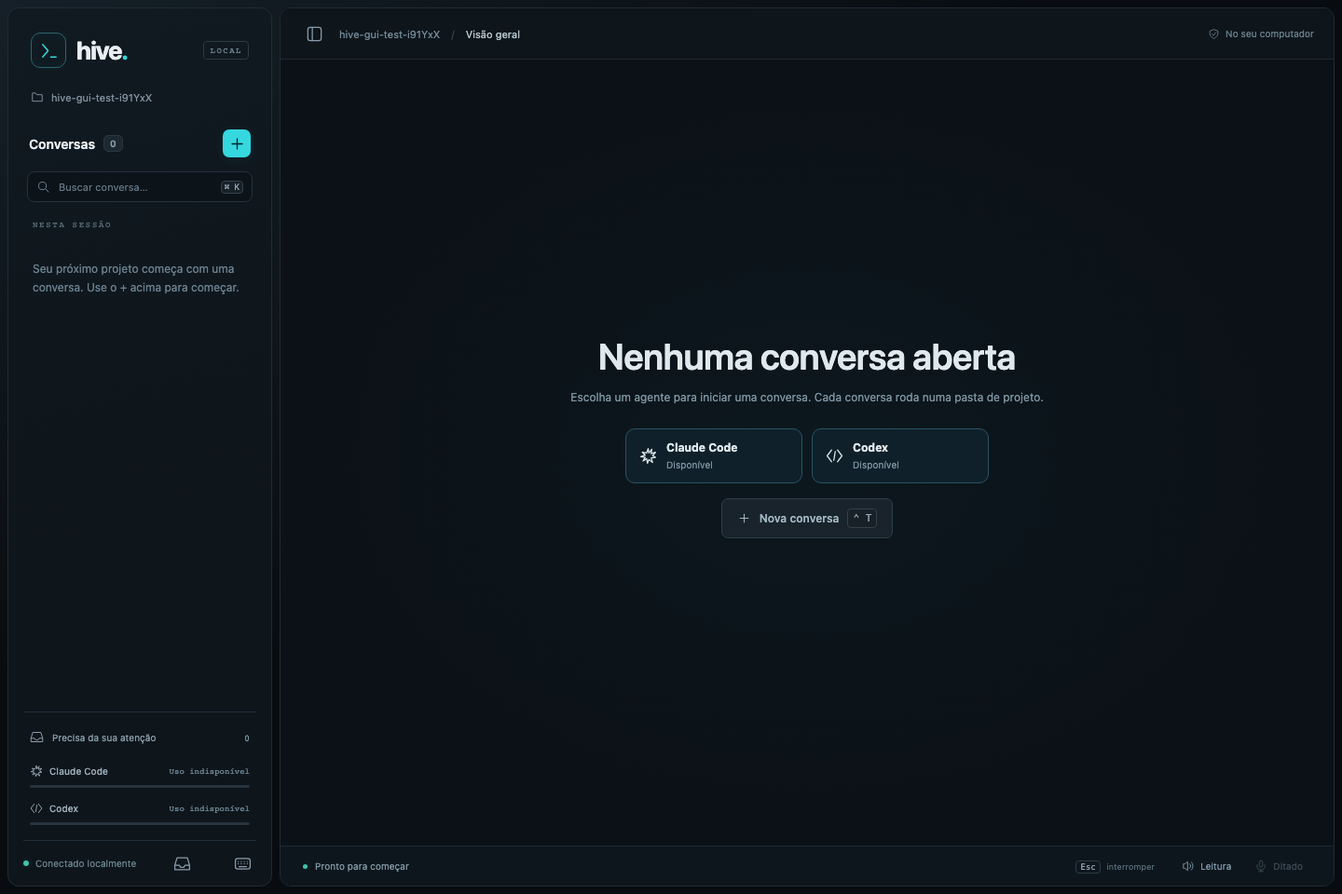
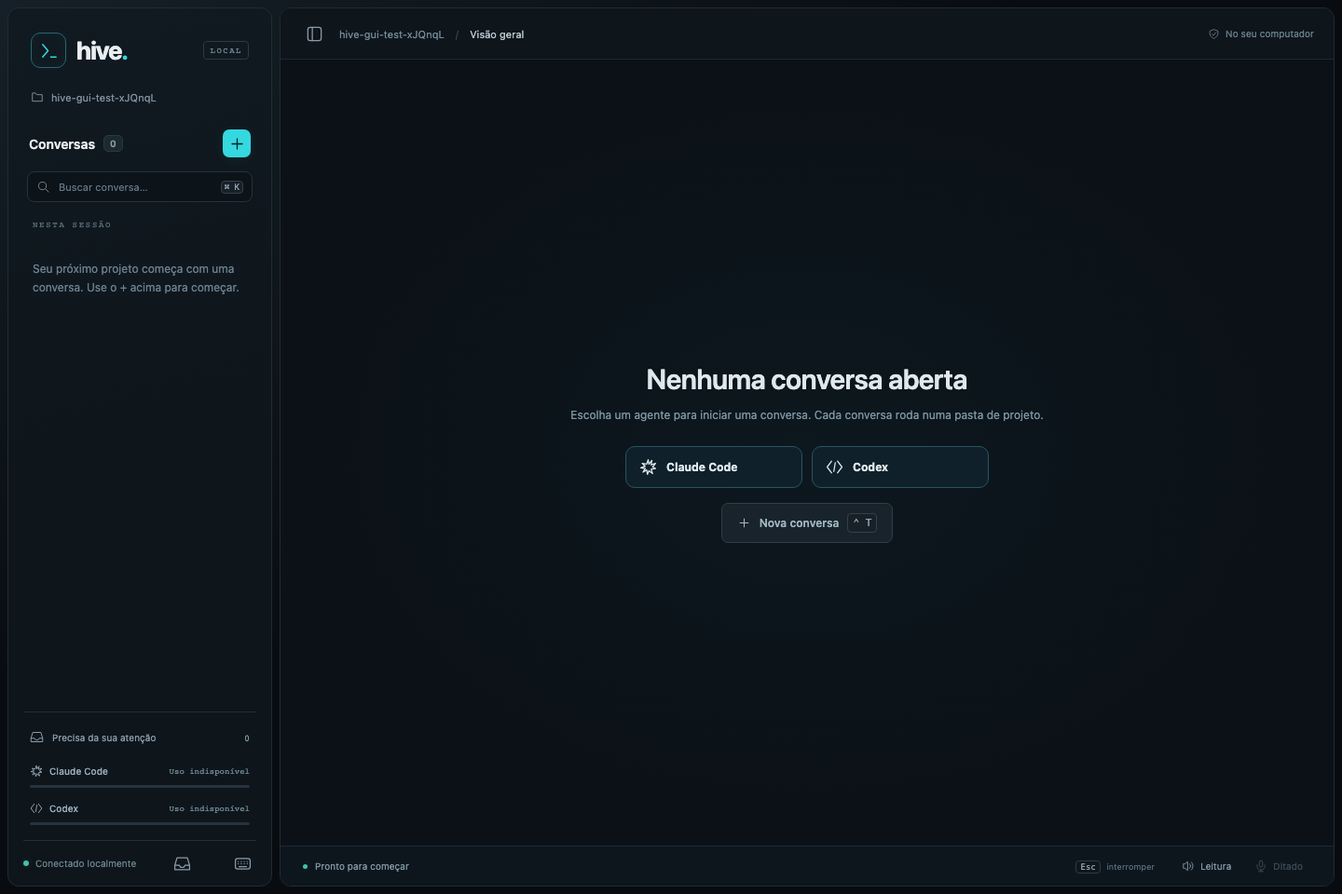
gui: preserve o foco na tela inicial e avise quando o agente não está instalado

Changed region(s): [[0.4062, 0.375, 0.7812, 0.5938], [0.3125, 0.0312, 0.375, 0.0625], [0.0938, 0.0938, 0.125, 0.125]]

diff --git a/gui/style.css b/gui/style.css
@@ -1,6 +1,6 @@
 /* O FitAddon mede #terminal: mantenha os espaçamentos em margens, fora da área útil. */
 :root{font-family:Inter,-apple-system,BlinkMacSystemFont,"Segoe UI",sans-serif;color:#e9eef2;background:#080d11;font-synthesis:none;--bg:#0b1015;--panel:#10171e;--line:#202b35;--muted:#8292a2;--cyan:#35d8df;--cyan-bright:#68edf0;--orange:#de9b7b;--radius:12px;color-scheme:dark}
-*{box-sizing:border-box}body{margin:0}button,input,select{font:inherit}button{cursor:pointer}button:disabled{cursor:not-allowed;opacity:.4}button,input,select{outline:none}button:focus-visible,input:focus-visible,select:focus-visible{outline:2px solid var(--cyan);outline-offset:3px}button{color:inherit}button svg{pointer-events:none}svg{width:19px;height:19px;display:block;flex-shrink:0}button{border:0}input,select{color:inherit}input::placeholder{color:#667887}button{transition:background .16s,border-color .16s,color .16s,box-shadow .16s}h1,h2,p{margin:0}[hidden]{display:none!important}kbd{font:11px ui-monospace,SFMono-Regular,Menlo,monospace;border:1px solid #34414b;background:#182128;border-radius:4px;padding:3px 5px;color:#97a7b6;white-space:nowrap}.workspace{height:100dvh;min-height:0;display:grid;grid-template-columns:284px minmax(0,1fr);padding:8px;gap:8px;background:radial-gradient(ellipse at 0 0,#152028,transparent 55%),#080c10}.sidebar{background:linear-gradient(165deg,#111a21,#0e151b 60%);border:1px solid var(--line);border-radius:var(--radius);display:flex;flex-direction:column;min-height:0;padding:26px 16px 0;position:relative;overflow:auto}.brand{display:flex;align-items:center;gap:11px;font-size:27px;font-weight:720;letter-spacing:-1px;padding:0 8px}.brand-mark{border:1px solid #2b6671;border-radius:10px;box-shadow:inset 0 0 15px #25d6e40b,0 0 15px #25d6e407;width:38px;height:38px;display:grid;place-items:center;color:var(--cyan)}.brand-mark svg{width:23px;height:23px}.brand-dot{color:var(--cyan)}.local-badge{font:9px ui-monospace,monospace;letter-spacing:1.5px;color:#6e8a94;border:1px solid #2a3b43;border-radius:4px;margin-left:auto;padding:4px 6px}.workspace-label{display:flex;align-items:center;gap:8px;font-size:11px;color:var(--muted);margin:24px 8px 28px}.workspace-label svg{width:14px;height:14px}.workspace-label span:last-child{overflow:hidden;text-overflow:ellipsis;white-space:nowrap}.sidebar-heading{display:flex;align-items:center;justify-content:space-between;margin:0 6px 15px}.sidebar-heading h1{font-size:14px;font-weight:600;display:flex;gap:9px;align-items:center}.sidebar-heading h1>span{font-size:10px;background:#1d2931;color:#8d9fac;border:1px solid #2b3841;border-radius:5px;min-width:21px;text-align:center;padding:2px 4px}.icon-button{background:transparent;color:#8a9dac;border:1px solid transparent;width:30px;height:30px;border-radius:7px;display:inline-flex;align-items:center;justify-content:center;flex-shrink:0}.icon-button:hover{color:#e2edf1;background:#1d2b34;border-color:#32444f}.icon-button.primary{color:#05232a;background:var(--cyan);box-shadow:0 2px 12px #33dbdf15;width:30px;height:30px}.icon-button.primary:hover{background:#78f1f4;box-shadow:0 0 18px #35d8df40}.search{display:flex;align-items:center;gap:7px;border:1px solid #26333e;border-radius:8px;padding:8px 9px;color:#728795;background:#0c1319;margin:0 4px 18px}.search svg{width:15px;height:15px}.search input{min-width:0;width:100%;background:none;border:0;font-size:11px}.search kbd{font-size:9px;padding:1px 3px}.search:focus-within{border-color:#3f9ca6}.conversation-list{flex:1;min-height:0;overflow:auto;margin:0 -2px;padding:0 2px 16px;scrollbar-width:thin;scrollbar-color:#293b45 transparent}.list-label{font:9px ui-monospace,monospace;letter-spacing:1.7px;color:#607782;padding:1px 10px 11px}.conversation-card{width:100%;padding:13px 10px;margin-bottom:7px;border:1px solid transparent;border-radius:9px;text-align:left;background:transparent;display:grid;grid-template-columns:30px minmax(0,1fr);gap:9px;position:relative}.conversation-card:hover{background:#17232c;border-color:#2c3e49}.conversation-card.active{background:linear-gradient(110deg,#113039,#102229);border-color:#287d86;box-shadow:inset 3px 0 var(--cyan)}.conversation-avatar{height:30px;width:30px;background:#202c34;display:grid;place-items:center;border:1px solid #2a3b44;border-radius:8px;color:var(--orange)}.conversation-avatar.codex{color:#8faef5}.conversation-avatar svg{width:18px;height:18px}.conversation-card.active .conversation-avatar{background:#17404a;border-color:#25616b}.conversation-title{font-size:12px;font-weight:550;overflow:hidden;white-space:nowrap;text-overflow:ellipsis;max-width:175px;padding:1px 0 7px}.conversation-meta{display:flex;align-items:center;gap:5px;font-size:10px;color:#7f95a2}.conversation-meta .folder-name{overflow:hidden;white-space:nowrap;text-overflow:ellipsis}.conversation-meta time{margin-left:auto;font-variant-numeric:tabular-nums}.small-status{width:5px;height:5px;border-radius:50%;background:#69818c;flex-shrink:0}.small-status.trabalhando{background:#e8bb65;animation:pulse 1.4s infinite}.small-status.esperando{background:#7dabfb}.small-status.pronto{background:#55c6a2}.unread{width:5px;height:5px;position:absolute;top:9px;right:9px;background:var(--cyan);border-radius:50%}.changes{color:#64b89a;font-size:9px;margin-left:auto}.changes .removed{color:#cc8a8a}.empty-list{padding:22px 10px;color:#6b8190;font-size:12px;line-height:1.7}.sidebar-bottom{border-top:1px solid #21303a;padding-top:10px}.pending-button{display:flex;align-items:center;gap:9px;font-size:10px;background:transparent;color:#8a9eac;padding:9px 7px;width:100%;border-radius:7px}.pending-button:hover{background:#1a2932;color:#d8e8ed}.pending-button svg{width:15px;height:15px}.pending-button>span:last-child{margin-left:auto;color:#7e9aa7;font:10px ui-monospace,monospace}.usage{padding:13px 7px 16px;display:flex;flex-direction:column;gap:15px}.usage-row{font-size:10px;position:relative}.usage-trigger{display:block;width:100%;text-align:left;background:transparent;padding:0;border-radius:6px}.usage-tip{display:none;position:absolute;left:0;bottom:calc(100% + 8px);width:100%;min-width:200px;z-index:20;background:#1a2831;border:1px solid #3a5361;border-radius:9px;padding:12px;box-shadow:0 8px 30px #0009;color:#c9d9e1;line-height:1.5}.usage-row:hover .usage-tip,.usage-row:has(:focus-visible) .usage-tip,.usage-row.open .usage-tip{display:block}.usage-row.dismissed .usage-tip{display:none!important}.usage-tip h3{font-size:11px;font-weight:600;margin:0 0 8px}.usage-window{display:flex;flex-direction:column;gap:2px;margin-bottom:8px}.usage-window strong{font-weight:600;color:#e2edf1}.usage-window span{color:#9bb0bc}.usage-tip p{color:#7f96a3;font-size:9px;margin:0}.usage-title{display:flex;align-items:center;gap:7px;margin-bottom:8px;color:#9aacb9}.usage-title svg{height:14px;width:14px}.usage-title strong{font-size:10px;font-weight:500}.usage-title>span:last-child{margin-left:auto;color:#718b99;font:9px ui-monospace,monospace}.usage-track{height:3px;background:#25333e;border-radius:8px;overflow:hidden}.usage-fill{height:100%;width:0;background:var(--orange);border-radius:8px}.usage-row.codex .usage-fill{background:#7fa7ed}.sidebar-footer{display:flex;align-items:center;gap:7px;border-top:1px solid #21303a;height:49px;color:#69828d;font-size:10px}.sidebar-footer .icon-button{margin-left:auto}.connection-dot{width:6px;height:6px;border-radius:50%;background:#40c3a8;box-shadow:0 0 8px #40c3a830;display:inline-block;flex-shrink:0}.disconnected .connection-dot{background:#e5a861;box-shadow:none}main{min-width:0;min-height:0;border:1px solid var(--line);border-radius:var(--radius);background:#0b1117;display:flex;flex-direction:column;overflow:hidden;position:relative}.topbar{height:55px;display:flex;align-items:center;justify-content:space-between;gap:16px;padding:0 21px;border-bottom:1px solid #1c2933;flex-shrink:0;background:#0e151b}.breadcrumb{display:flex;align-items:center;gap:12px;min-width:0;font-size:11px;color:#748b99}.breadcrumb>span{overflow:hidden;text-overflow:ellipsis;white-space:nowrap}.breadcrumb #breadcrumb-title{color:#b7c6ce}.slash{color:#3b4d58}.private-label{display:flex;align-items:center;gap:6px;font-size:10px;color:#69828e;white-space:nowrap}.private-label svg{width:13px;height:13px}.agent-header{margin:22px 24px 19px;padding:19px 20px;display:flex;align-items:center;justify-content:space-between;gap:16px;border:1px solid #2a3c48;border-radius:11px;background:radial-gradient(ellipse at 0 0,#1c2d35,transparent 70%),linear-gradient(120deg,#151f27,#101820);box-shadow:0 3px 20px #00000018;flex-shrink:0}.agent-identity{display:flex;align-items:center;gap:15px;min-width:0}.agent-identity>div:last-child{min-width:0}.agent-avatar{width:49px;height:49px;border-radius:12px;border:1px solid #4f3e3a;background:linear-gradient(135deg,#392d2b,#242426);display:grid;place-items:center;color:#e8a48e;flex-shrink:0}.agent-avatar svg{width:32px;height:32px}.agent-avatar.codex{background:linear-gradient(135deg,#233852,#1d2836);border-color:#35506c;color:#9abaff}.agent-name{display:flex;align-items:center;gap:9px;flex-wrap:wrap;margin-bottom:8px}.agent-name h2{font-size:18px;font-weight:600;letter-spacing:-.4px}.version{font:10px ui-monospace,monospace;color:#7a909f}.status-badge{font-size:9px;color:#8297a5;border:1px solid #34454f;border-radius:4px;padding:3px 6px}.status-badge.trabalhando{color:#e8c47e;border-color:#5d5032;background:#30291c}.status-badge.esperando{color:#a6c8ff;border-color:#3a5273;background:#1b2d42}.status-badge.pronto{color:#87d6b7;border-color:#305949;background:#152f26}.agent-details{display:flex;align-items:center;gap:13px;color:#9cacb7;font-size:10px;flex-wrap:wrap}.agent-path{display:flex;gap:6px;align-items:center;min-width:0;color:#7f96a5}.agent-path>span:last-child{overflow:hidden;white-space:nowrap;text-overflow:ellipsis;max-width:380px}.agent-path svg{height:12px;width:12px}.model-button{display:flex;align-items:center;gap:12px;border:1px solid #364f5a;border-radius:8px;background:#101d25;padding:11px 13px;flex-shrink:0;text-align:left;color:var(--cyan)}.model-button:hover{border-color:var(--cyan);background:#16303a;box-shadow:0 0 20px #35d8df0b}.model-button>span:nth-child(2){display:flex;flex-direction:column;gap:4px}.model-button small{font:8px ui-monospace,monospace;letter-spacing:1.7px;color:#6f919f}.model-button strong{font-size:11px;color:#c8e8eb;font-weight:500;max-width:200px;overflow:hidden;white-space:nowrap;text-overflow:ellipsis}.model-button>span:last-child svg{width:13px;height:13px}.terminal-section{margin:0 24px 18px;min-height:0;flex:1;display:flex;flex-direction:column;border:1px solid #22333f;border-radius:9px;background:#0b1117;position:relative;overflow:hidden}.terminal-toolbar{height:37px;display:flex;align-items:center;justify-content:space-between;padding:0 10px 0 14px;background:#101920;border-bottom:1px solid #1c2b35;flex-shrink:0;font-size:10px;color:#78919f}.terminal-toolbar>span{display:flex;align-items:center;gap:7px}.terminal-toolbar .connection-dot{height:5px;width:5px;box-shadow:none}.terminal-toolbar>div{display:flex;gap:8px;align-items:center}.text-button{display:flex;gap:6px;align-items:center;background:transparent;color:#78919f;font-size:10px;padding:4px 7px;border-radius:4px}.text-button:hover{color:var(--cyan);background:#1c2b34}.text-button svg{height:12px;width:12px}#terminal{flex:1;min-width:0;min-height:0;margin:13px 9px 8px 15px}.xterm{height:100%}.xterm .xterm-viewport{scrollbar-color:#304752 #0b1117;scrollbar-width:thin}.terminal-reconnect{position:absolute;bottom:20px;left:50%;transform:translateX(-50%);background:#17313b;border:1px solid #31606b;border-radius:6px;padding:8px 12px;font-size:11px}.statusbar{height:43px;flex-shrink:0;border-top:1px solid #1c2b35;display:flex;justify-content:space-between;align-items:center;padding:0 24px;font-size:10px;color:#8299a6;background:#0e161d;gap:12px}.session-indicator{display:flex;gap:8px;align-items:center;white-space:nowrap;overflow:hidden;text-overflow:ellipsis}.session-indicator .connection-dot{width:5px;height:5px}.statusbar-actions{display:flex;align-items:center;gap:7px}.key-hint{font-size:9px;color:#58717f;margin-right:13px;white-space:nowrap}.key-hint kbd{font-size:9px;padding:1px 4px;background:transparent;border-color:#293d48;margin-right:4px}.tool-button{display:flex;align-items:center;gap:6px;padding:6px 8px;border-radius:5px;color:#7e98a7;background:transparent;font-size:10px;border:1px solid transparent;white-space:nowrap}.tool-button svg{width:14px;height:14px}.tool-button:hover{background:#1a2a34;color:#c9e9ee;border-color:#2d424d}.tool-button[aria-pressed=true]{color:var(--cyan);background:#123039;border-color:#23535f}#mic-button[aria-pressed=true]{color:#ff9b9b;background:#3a2029;border-color:#6a343f}.welcome{position:relative;flex:1;min-height:0;display:flex;align-items:center;justify-content:center;overflow:hidden;background:radial-gradient(ellipse at 50% 50%,#12313b33,transparent 65%)}.welcome-content{position:relative;text-align:center;padding:30px 20px 65px;max-width:640px}.eyebrow{display:flex;align-items:center;gap:7px;color:#6d9ea6;font:9px ui-monospace,monospace;letter-spacing:2px}.eyebrow .connection-dot{width:4px;height:4px}.welcome h2{font-size:clamp(25px,3vw,39px);line-height:1.23;letter-spacing:-.5px;font-weight:570;color:#dfe9ed}.welcome h2>span{color:var(--cyan)}.welcome p{font-size:12px;line-height:1.7;margin:10px 0 22px;color:#7e95a3}
+*{box-sizing:border-box}body{margin:0}button,input,select{font:inherit}button{cursor:pointer}button:disabled{cursor:not-allowed;opacity:.4}button,input,select{outline:none}button:focus-visible,input:focus-visible,select:focus-visible{outline:2px solid var(--cyan);outline-offset:3px}button{color:inherit}button svg{pointer-events:none}svg{width:19px;height:19px;display:block;flex-shrink:0}button{border:0}input,select{color:inherit}input::placeholder{color:#667887}button{transition:background .16s,border-color .16s,color .16s,box-shadow .16s}h1,h2,p{margin:0}[hidden]{display:none!important}kbd{font:11px ui-monospace,SFMono-Regular,Menlo,monospace;border:1px solid #34414b;background:#182128;border-radius:4px;padding:3px 5px;color:#97a7b6;white-space:nowrap}.workspace{height:100dvh;min-height:0;display:grid;grid-template-columns:284px minmax(0,1fr);padding:8px;gap:8px;background:radial-gradient(ellipse at 0 0,#152028,transparent 55%),#080c10}.sidebar{background:linear-gradient(165deg,#111a21,#0e151b 60%);border:1px solid var(--line);border-radius:var(--radius);display:flex;flex-direction:column;min-height:0;padding:26px 16px 0;position:relative;overflow:auto}.brand{display:flex;align-items:center;gap:11px;font-size:27px;font-weight:720;letter-spacing:-1px;padding:0 8px}.brand-mark{border:1px solid #2b6671;border-radius:10px;box-shadow:inset 0 0 15px #25d6e40b,0 0 15px #25d6e407;width:38px;height:38px;display:grid;place-items:center;color:var(--cyan)}.brand-mark svg{width:23px;height:23px}.brand-dot{color:var(--cyan)}.local-badge{font:9px ui-monospace,monospace;letter-spacing:1.5px;color:#6e8a94;border:1px solid #2a3b43;border-radius:4px;margin-left:auto;padding:4px 6px}.workspace-label{display:flex;align-items:center;gap:8px;font-size:11px;color:var(--muted);margin:24px 8px 28px}.workspace-label svg{width:14px;height:14px}.workspace-label span:last-child{overflow:hidden;text-overflow:ellipsis;white-space:nowrap}.sidebar-heading{display:flex;align-items:center;justify-content:space-between;margin:0 6px 15px}.sidebar-heading h1{font-size:14px;font-weight:600;display:flex;gap:9px;align-items:center}.sidebar-heading h1>span{font-size:10px;background:#1d2931;color:#8d9fac;border:1px solid #2b3841;border-radius:5px;min-width:21px;text-align:center;padding:2px 4px}.icon-button{background:transparent;color:#8a9dac;border:1px solid transparent;width:30px;height:30px;border-radius:7px;display:inline-flex;align-items:center;justify-content:center;flex-shrink:0}.icon-button:hover{color:#e2edf1;background:#1d2b34;border-color:#32444f}.icon-button.primary{color:#05232a;background:var(--cyan);box-shadow:0 2px 12px #33dbdf15;width:30px;height:30px}.icon-button.primary:hover{background:#78f1f4;box-shadow:0 0 18px #35d8df40}.search{display:flex;align-items:center;gap:7px;border:1px solid #26333e;border-radius:8px;padding:8px 9px;color:#728795;background:#0c1319;margin:0 4px 18px}.search svg{width:15px;height:15px}.search input{min-width:0;width:100%;background:none;border:0;font-size:11px}.search kbd{font-size:9px;padding:1px 3px}.search:focus-within{border-color:#3f9ca6}.conversation-list{flex:1;min-height:0;overflow:auto;margin:0 -2px;padding:0 2px 16px;scrollbar-width:thin;scrollbar-color:#293b45 transparent}.list-label{font:9px ui-monospace,monospace;letter-spacing:1.7px;color:#607782;padding:1px 10px 11px}.conversation-card{width:100%;padding:13px 10px;margin-bottom:7px;border:1px solid transparent;border-radius:9px;text-align:left;background:transparent;display:grid;grid-template-columns:30px minmax(0,1fr);gap:9px;position:relative}.conversation-card:hover{background:#17232c;border-color:#2c3e49}.conversation-card.active{background:linear-gradient(110deg,#113039,#102229);border-color:#287d86;box-shadow:inset 3px 0 var(--cyan)}.conversation-avatar{height:30px;width:30px;background:#202c34;display:grid;place-items:center;border:1px solid #2a3b44;border-radius:8px;color:var(--orange)}.conversation-avatar.codex{color:#8faef5}.conversation-avatar svg{width:18px;height:18px}.conversation-card.active .conversation-avatar{background:#17404a;border-color:#25616b}.conversation-title{font-size:12px;font-weight:550;overflow:hidden;white-space:nowrap;text-overflow:ellipsis;max-width:175px;padding:1px 0 7px}.conversation-meta{display:flex;align-items:center;gap:5px;font-size:10px;color:#7f95a2}.conversation-meta .folder-name{overflow:hidden;white-space:nowrap;text-overflow:ellipsis}.conversation-meta time{margin-left:auto;font-variant-numeric:tabular-nums}.small-status{width:5px;height:5px;border-radius:50%;background:#69818c;flex-shrink:0}.small-status.trabalhando{background:#e8bb65;animation:pulse 1.4s infinite}.small-status.esperando{background:#7dabfb}.small-status.pronto{background:#55c6a2}.unread{width:5px;height:5px;position:absolute;top:9px;right:9px;background:var(--cyan);border-radius:50%}.changes{color:#64b89a;font-size:9px;margin-left:auto}.changes .removed{color:#cc8a8a}.empty-list{padding:22px 10px;color:#6b8190;font-size:12px;line-height:1.7}.sidebar-bottom{border-top:1px solid #21303a;padding-top:10px}.pending-button{display:flex;align-items:center;gap:9px;font-size:10px;background:transparent;color:#8a9eac;padding:9px 7px;width:100%;border-radius:7px}.pending-button:hover{background:#1a2932;color:#d8e8ed}.pending-button svg{width:15px;height:15px}.pending-button>span:last-child{margin-left:auto;color:#7e9aa7;font:10px ui-monospace,monospace}.usage{padding:13px 7px 16px;display:flex;flex-direction:column;gap:15px}.usage-row{font-size:10px;position:relative}.usage-trigger{display:block;width:100%;text-align:left;background:transparent;padding:0;border-radius:6px}.usage-tip{display:none;position:absolute;left:0;bottom:calc(100% + 8px);width:100%;min-width:200px;z-index:20;background:#1a2831;border:1px solid #3a5361;border-radius:9px;padding:12px;box-shadow:0 8px 30px #0009;color:#c9d9e1;line-height:1.5}.usage-row:hover .usage-tip,.usage-row:has(:focus-visible) .usage-tip,.usage-row.open .usage-tip{display:block}.usage-row.dismissed .usage-tip{display:none!important}.usage-tip h3{font-size:11px;font-weight:600;margin:0 0 8px}.usage-window{display:flex;flex-direction:column;gap:2px;margin-bottom:8px}.usage-window strong{font-weight:600;color:#e2edf1}.usage-window span{color:#9bb0bc}.usage-tip p{color:#7f96a3;font-size:9px;margin:0}.usage-title{display:flex;align-items:center;gap:7px;margin-bottom:8px;color:#9aacb9}.usage-title svg{height:14px;width:14px}.usage-title strong{font-size:10px;font-weight:500}.usage-title>span:last-child{margin-left:auto;color:#718b99;font:9px ui-monospace,monospace}.usage-track{height:3px;background:#25333e;border-radius:8px;overflow:hidden}.usage-fill{height:100%;width:0;background:var(--orange);border-radius:8px}.usage-row.codex .usage-fill{background:#7fa7ed}.sidebar-footer{display:flex;align-items:center;gap:7px;border-top:1px solid #21303a;height:49px;color:#69828d;font-size:10px}.sidebar-footer .icon-button{margin-left:auto}.connection-dot{width:6px;height:6px;border-radius:50%;background:#40c3a8;box-shadow:0 0 8px #40c3a830;display:inline-block;flex-shrink:0}.disconnected .connection-dot{background:#e5a861;box-shadow:none}main{min-width:0;min-height:0;border:1px solid var(--line);border-radius:var(--radius);background:#0b1117;display:flex;flex-direction:column;overflow:hidden;position:relative}.topbar{height:55px;display:flex;align-items:center;justify-content:space-between;gap:16px;padding:0 21px;border-bottom:1px solid #1c2933;flex-shrink:0;background:#0e151b}.breadcrumb{display:flex;align-items:center;gap:12px;min-width:0;font-size:11px;color:#748b99}.breadcrumb>span{overflow:hidden;text-overflow:ellipsis;white-space:nowrap}.breadcrumb #breadcrumb-title{color:#b7c6ce}.slash{color:#3b4d58}.private-label{display:flex;align-items:center;gap:6px;font-size:10px;color:#69828e;white-space:nowrap}.private-label svg{width:13px;height:13px}.agent-header{margin:22px 24px 19px;padding:19px 20px;display:flex;align-items:center;justify-content:space-between;gap:16px;border:1px solid #2a3c48;border-radius:11px;background:radial-gradient(ellipse at 0 0,#1c2d35,transparent 70%),linear-gradient(120deg,#151f27,#101820);box-shadow:0 3px 20px #00000018;flex-shrink:0}.agent-identity{display:flex;align-items:center;gap:15px;min-width:0}.agent-identity>div:last-child{min-width:0}.agent-avatar{width:49px;height:49px;border-radius:12px;border:1px solid #4f3e3a;background:linear-gradient(135deg,#392d2b,#242426);display:grid;place-items:center;color:#e8a48e;flex-shrink:0}.agent-avatar svg{width:32px;height:32px}.agent-avatar.codex{background:linear-gradient(135deg,#233852,#1d2836);border-color:#35506c;color:#9abaff}.agent-name{display:flex;align-items:center;gap:9px;flex-wrap:wrap;margin-bottom:8px}.agent-name h2{font-size:18px;font-weight:600;letter-spacing:-.4px}.version{font:10px ui-monospace,monospace;color:#7a909f}.status-badge{font-size:9px;color:#8297a5;border:1px solid #34454f;border-radius:4px;padding:3px 6px}.status-badge.trabalhando{color:#e8c47e;border-color:#5d5032;background:#30291c}.status-badge.esperando{color:#a6c8ff;border-color:#3a5273;background:#1b2d42}.status-badge.pronto{color:#87d6b7;border-color:#305949;background:#152f26}.agent-details{display:flex;align-items:center;gap:13px;color:#9cacb7;font-size:10px;flex-wrap:wrap}.agent-path{display:flex;gap:6px;align-items:center;min-width:0;color:#7f96a5}.agent-path>span:last-child{overflow:hidden;white-space:nowrap;text-overflow:ellipsis;max-width:380px}.agent-path svg{height:12px;width:12px}.model-button{display:flex;align-items:center;gap:12px;border:1px solid #364f5a;border-radius:8px;background:#101d25;padding:11px 13px;flex-shrink:0;text-align:left;color:var(--cyan)}.model-button:hover{border-color:var(--cyan);background:#16303a;box-shadow:0 0 20px #35d8df0b}.model-button>span:nth-child(2){display:flex;flex-direction:column;gap:4px}.model-button small{font:8px ui-monospace,monospace;letter-spacing:1.7px;color:#6f919f}.model-button strong{font-size:11px;color:#c8e8eb;font-weight:500;max-width:200px;overflow:hidden;white-space:nowrap;text-overflow:ellipsis}.model-button>span:last-child svg{width:13px;height:13px}.terminal-section{margin:0 24px 18px;min-height:0;flex:1;display:flex;flex-direction:column;border:1px solid #22333f;border-radius:9px;background:#0b1117;position:relative;overflow:hidden}.terminal-toolbar{height:37px;display:flex;align-items:center;justify-content:space-between;padding:0 10px 0 14px;background:#101920;border-bottom:1px solid #1c2b35;flex-shrink:0;font-size:10px;color:#78919f}.terminal-toolbar>span{display:flex;align-items:center;gap:7px}.terminal-toolbar .connection-dot{height:5px;width:5px;box-shadow:none}.terminal-toolbar>div{display:flex;gap:8px;align-items:center}.text-button{display:flex;gap:6px;align-items:center;background:transparent;color:#78919f;font-size:10px;padding:4px 7px;border-radius:4px}.text-button:hover{color:var(--cyan);background:#1c2b34}.text-button svg{height:12px;width:12px}#terminal{flex:1;min-width:0;min-height:0;margin:13px 9px 8px 15px}.xterm{height:100%}.xterm .xterm-viewport{scrollbar-color:#304752 #0b1117;scrollbar-width:thin}.terminal-reconnect{position:absolute;bottom:20px;left:50%;transform:translateX(-50%);background:#17313b;border:1px solid #31606b;border-radius:6px;padding:8px 12px;font-size:11px}.statusbar{height:43px;flex-shrink:0;border-top:1px solid #1c2b35;display:flex;justify-content:space-between;align-items:center;padding:0 24px;font-size:10px;color:#8299a6;background:#0e161d;gap:12px}.session-indicator{display:flex;gap:8px;align-items:center;white-space:nowrap;overflow:hidden;text-overflow:ellipsis}.session-indicator .connection-dot{width:5px;height:5px}.statusbar-actions{display:flex;align-items:center;gap:7px}.key-hint{font-size:9px;color:#58717f;margin-right:13px;white-space:nowrap}.key-hint kbd{font-size:9px;padding:1px 4px;background:transparent;border-color:#293d48;margin-right:4px}.tool-button{display:flex;align-items:center;gap:6px;padding:6px 8px;border-radius:5px;color:#7e98a7;background:transparent;font-size:10px;border:1px solid transparent;white-space:nowrap}.tool-button svg{width:14px;height:14px}.tool-button:hover{background:#1a2a34;color:#c9e9ee;border-color:#2d424d}.tool-button[aria-pressed=true]{color:var(--cyan);background:#123039;border-color:#23535f}#mic-button[aria-pressed=true]{color:#ff9b9b;background:#3a2029;border-color:#6a343f}.welcome{position:relative;flex:1;min-height:0;display:flex;align-items:center;justify-content:center;overflow:auto;background:radial-gradient(ellipse at 50% 50%,#12313b33,transparent 65%)}.welcome-content{position:relative;text-align:center;padding:30px 20px;max-width:640px}.eyebrow{display:flex;align-items:center;gap:7px;color:#6d9ea6;font:9px ui-monospace,monospace;letter-spacing:2px}.eyebrow .connection-dot{width:4px;height:4px}.welcome h2{font-size:clamp(22px,2.4vw,30px);line-height:1.23;letter-spacing:-.5px;font-weight:570;color:#dfe9ed}.welcome h2>span{color:var(--cyan)}.welcome p{font-size:12px;line-height:1.7;margin:10px 0 22px;color:#7e95a3}
 .welcome-agents{display:flex;justify-content:center;flex-wrap:wrap;gap:10px;margin-bottom:16px}
 .welcome-agent{display:flex;align-items:center;gap:10px;min-width:190px;padding:12px 14px;text-align:left;color:#dfe9ed;border:1px solid #275562;border-radius:10px;background:#10202a}
 .welcome-agent:hover:not(:disabled){border-color:var(--cyan)}

diff --git a/gui/app.js b/gui/app.js
@@ -99,11 +99,14 @@ function usageWindow(used, resets, label, now) {
   line.append(el('strong', '', `${label}: ${Math.round(Math.min(100, Math.max(0, used)))}% usado`), el('span', '', `Renova ${resetText(resets)}`));
   return line;
 }
+let welcomeKey = '';
 function renderWelcome() {
+  const key = state.agentes.map(a => `${a.id}:${a.instalado}`).join(); if (key === welcomeKey) return; welcomeKey = key;
   $('welcome-agents').replaceChildren();
   for (const a of state.agentes) {
     const button = el('button', `welcome-agent ${a.id}`); button.type = 'button'; button.disabled = !a.instalado;
-    const name = el('span'); name.append(el('strong', '', a.nome), el('small', '', a.instalado ? 'Disponível' : 'Não instalado'));
+    const name = el('span'); name.append(el('strong', '', a.nome), el('small', '', a.instalado ? '' : 'Não instalado'));
+    if (!a.instalado) button.title = `${a.nome} não encontrado. Instale e faça login pelo terminal.`;
     button.append(glyph(a.id, 'agent-choice-icon'), name); button.onclick = () => openCreate(a.id);
     $('welcome-agents').append(button);
   }
